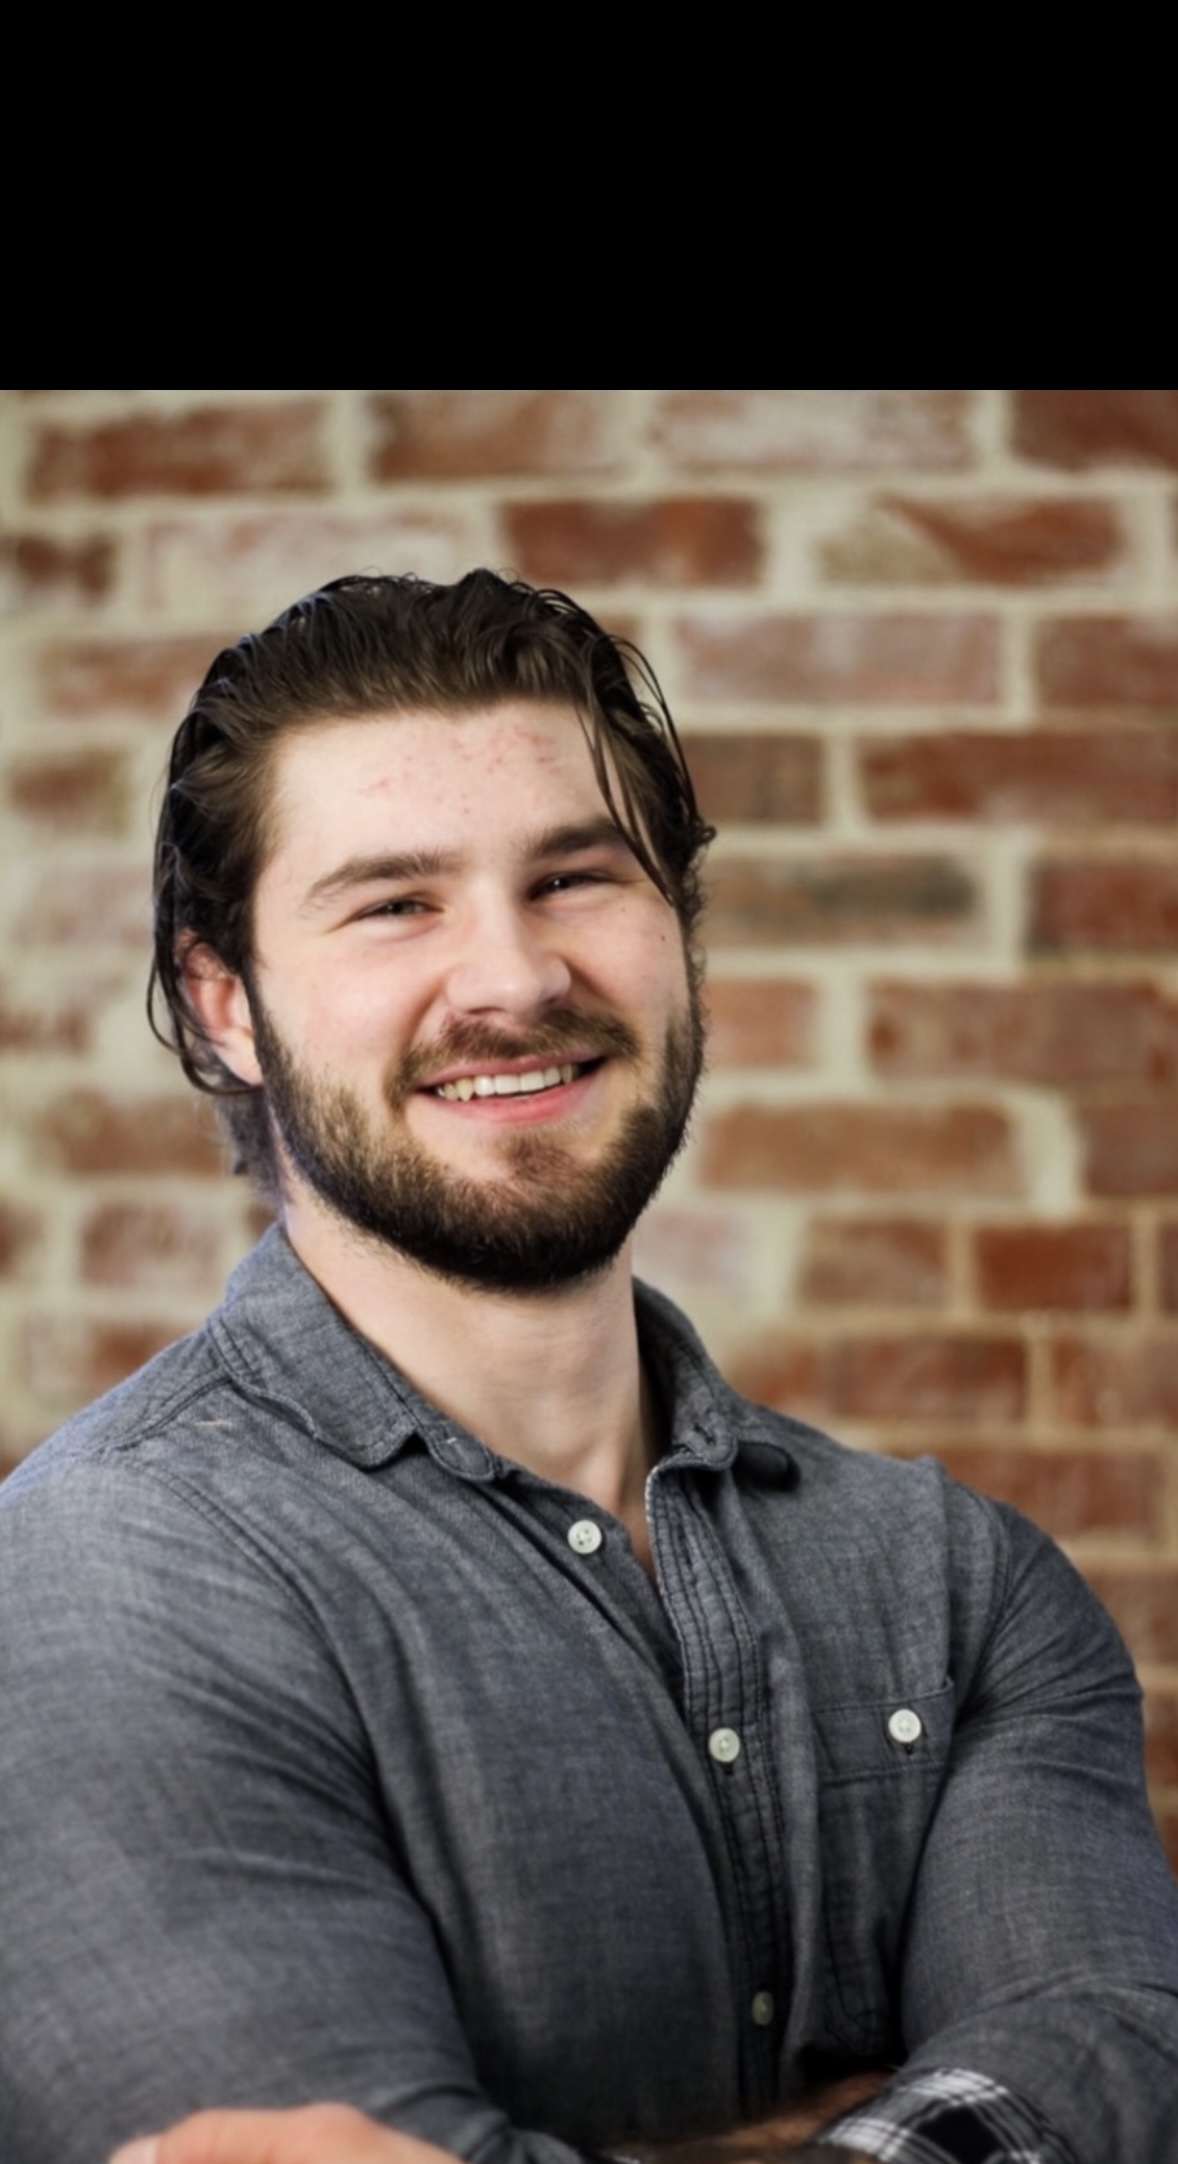
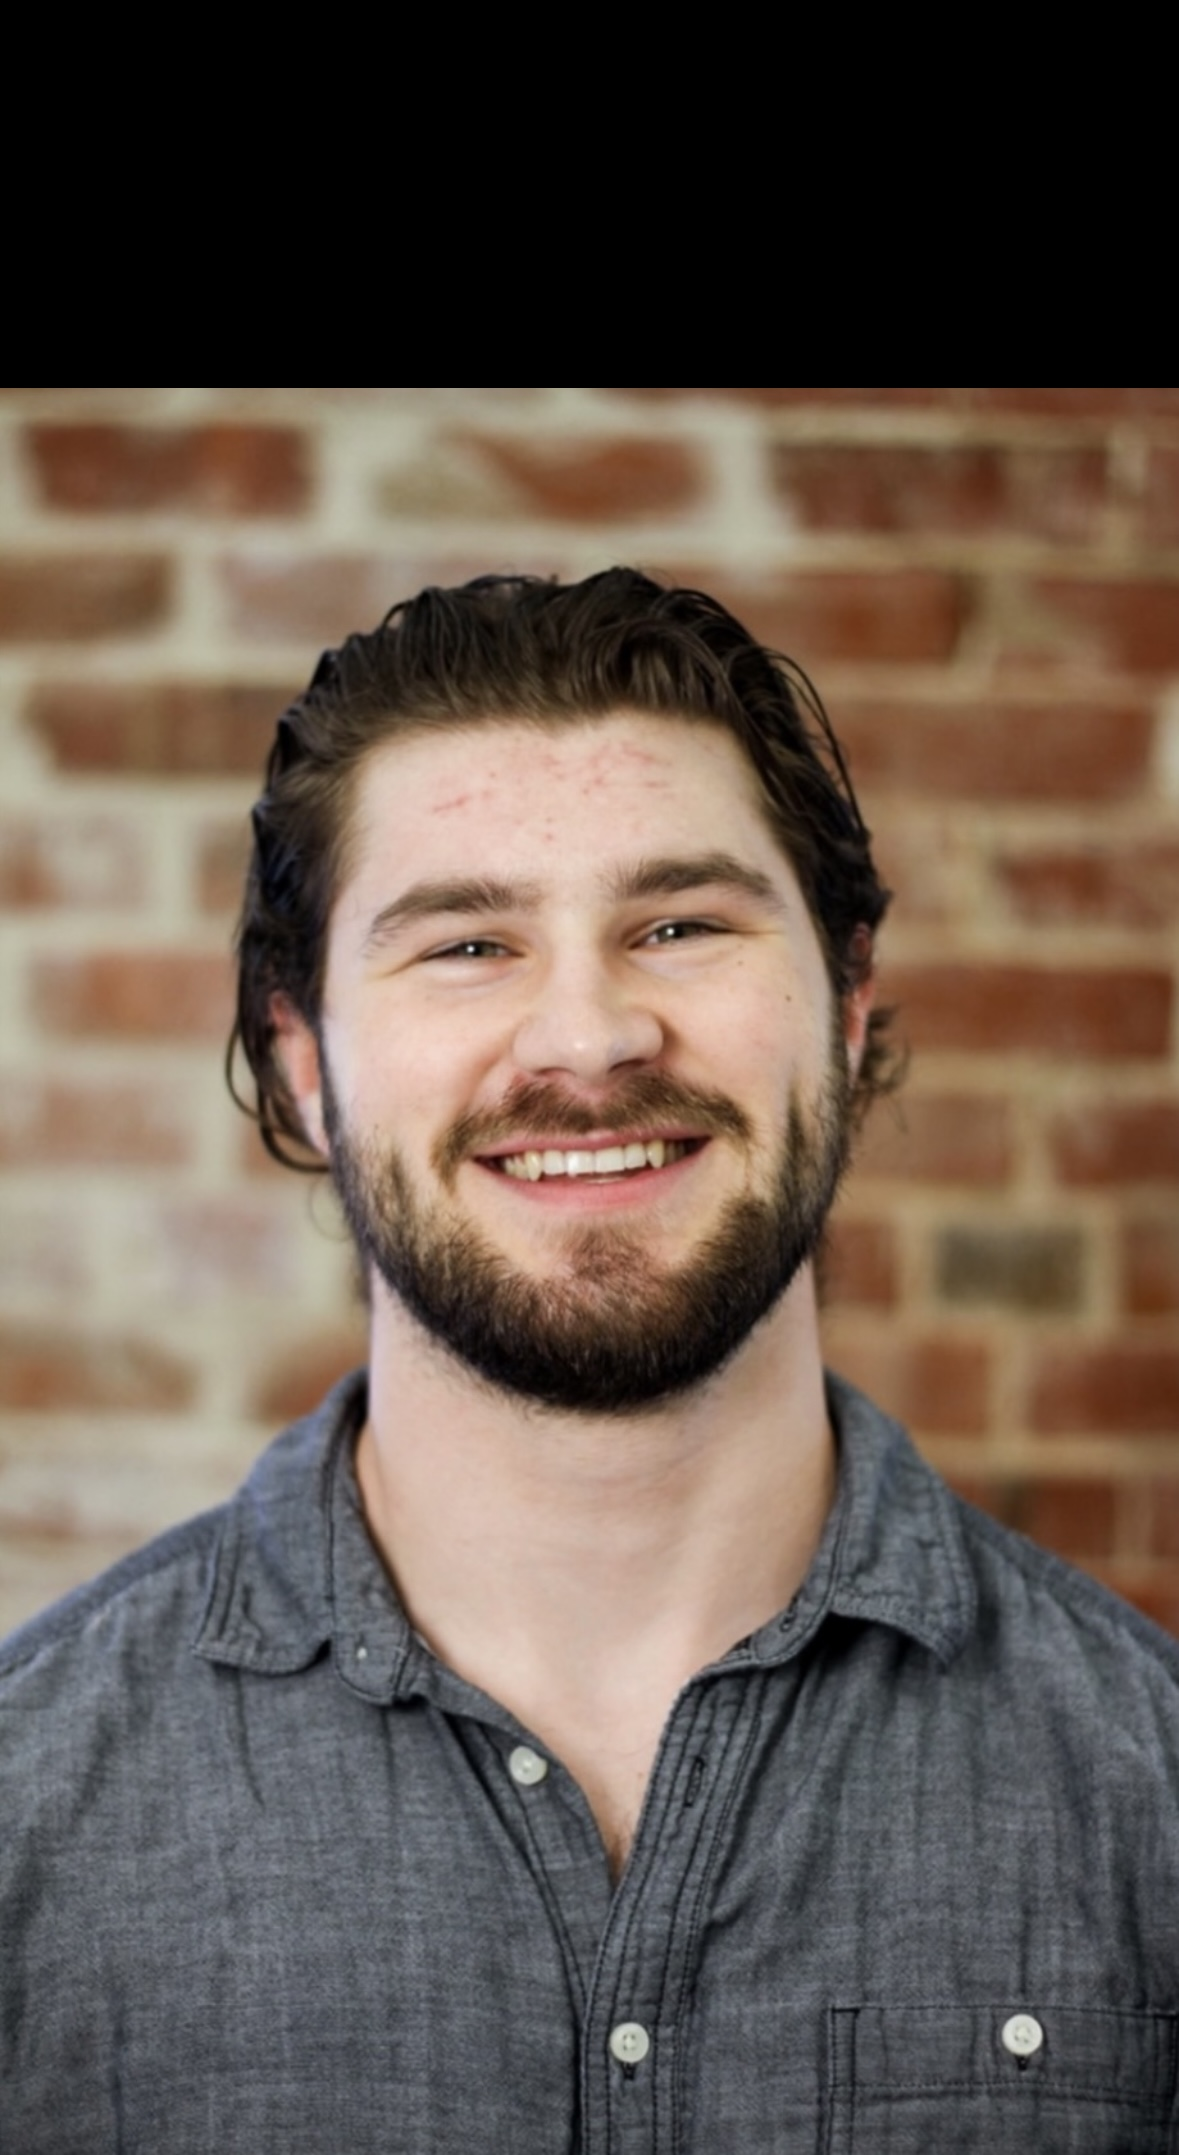
removed hand and changed image

diff --git a/src/components/home/Data.js b/src/components/home/Data.js
@@ -4,55 +4,6 @@ const Data = () => {
     return (
         <div className="home_data">
             <h1 className="home_title">Braden Ognoskie
-                <svg
-                width="36"
-                height="36"
-                viewBox="0 0 48 48"
-                fill="none"
-                xmlns="http://www.w3.org/2000/svg"
-                className="home__hand"
-            >
-                <path
-                    d="M25.4995 32.0305L31.3495 33.1555L36.1495 8.48051C36.4495 6.83051 35.3995 5.18051 33.8245 4.88051C32.1745 4.58051 30.5995 5.70551 30.2995 7.35551L25.4995 32.0305Z"
-                    fill="#FFDD67"
-                ></path>
-                <path
-                    d="M33.8996 4.88018C33.6746 4.80518 33.5246 4.80518 33.2996 4.80518C34.6496 5.33018 35.3996 6.75518 35.0996 8.25518L30.2996 32.9302L31.3496 33.1552L36.1496 8.48018C36.5246 6.75518 35.4746 5.18018 33.8996 4.88018Z"
-                    fill="#EBA352"
-                ></path>
-                <path
-                    d="M19.4995 32.7802H26.5495V5.55518C26.5495 3.53018 24.9745 1.80518 23.0245 1.80518C21.1495 1.80518 19.4995 3.45518 19.4995 5.55518V32.7802Z"
-                    fill="#FFDD67"
-                ></path>
-                <path
-                    d="M23.0995 1.80518C22.9495 1.80518 22.7245 1.80518 22.5745 1.88018C24.2995 2.18018 25.5745 3.68018 25.5745 5.55518V32.8552H26.6245V5.55518C26.6245 3.45518 25.0495 1.80518 23.0995 1.80518Z"
-                    fill="#EBA352"
-                ></path>
-                <path
-                    d="M15.7495 32.7054L21.7495 31.1304L15.2245 6.30541C14.7745 4.58041 13.0495 3.53041 11.3995 3.90541C9.74948 4.35541 8.77448 6.08041 9.22448 7.80541L15.7495 32.7054Z"
-                    fill="#FFDD67"
-                ></path>
-                <path
-                    d="M11.3995 3.90541L10.9495 4.13041C12.4495 4.05541 13.7995 5.03041 14.2495 6.60541L20.7745 31.4304L21.8245 31.1304L15.2245 6.30541C14.7745 4.58041 13.0495 3.53041 11.3995 3.90541Z"
-                    fill="#EBA352"
-                ></path>
-                <path
-                    d="M2.99937 10.355C1.57437 11.03 1.12437 12.83 1.87437 14.33L11.7744 34.055L16.7994 31.505L6.89937 11.78C6.14937 10.28 4.42437 9.68 2.99937 10.355Z"
-                    fill="#FFDD67"
-                ></path>
-                <path
-                    d="M2.99956 10.355C2.84956 10.43 2.69956 10.505 2.54956 10.655C3.82456 10.28 5.24956 10.955 5.92456 12.305L15.8246 32.03L16.7996 31.58L6.89956 11.78C6.14956 10.28 4.42456 9.68 2.99956 10.355Z"
-                    fill="#EBA352"
-                ></path>
-                <path
-                    d="M46.2744 22.2801C45.0744 19.9551 41.3244 20.1051 37.4994 24.3051C34.7994 27.2301 34.2744 28.2051 31.5744 28.1301V25.0551C31.5744 25.0551 25.7994 20.7801 14.3244 22.7301C14.3244 22.7301 7.79945 23.6301 7.79945 27.0801C7.79945 27.0801 6.67445 35.4051 8.99945 40.6551C12.4494 48.4551 30.1494 50.4801 35.6994 37.2051C36.8244 34.5801 39.0744 32.6301 41.0994 30.1551C43.4244 27.1551 47.5494 24.7551 46.2744 22.2801Z"
-                    fill="#FFDD67"
-                ></path>
-                <path
-                    d="M46.2745 22.28C46.0495 21.83 45.7495 21.53 45.3745 21.23C45.4495 21.305 45.5245 21.38 45.5245 21.53C46.7995 24.08 42.6745 26.405 40.1995 29.405C38.1745 31.88 35.9245 33.83 34.7995 36.455C29.9995 47.93 16.0495 47.93 10.1995 42.68C15.5245 48.68 30.5245 49.28 35.5495 37.205C36.6745 34.58 38.9245 32.63 40.9495 30.155C43.4245 27.155 47.5495 24.755 46.2745 22.28ZM32.3245 28.13C27.4495 26.33 18.7495 29.63 19.9495 38.405C19.9495 30.23 27.3745 28.205 31.4245 28.205C32.0245 28.13 32.3245 28.13 32.3245 28.13Z"
-                    fill="#EBA352"
-                ></path>
-                </svg>
             </h1>
             <h3 className="home_subtitle">Full Stack Developer</h3>
             <p className="home_description">I'm a full stack developer with a passion and drive for front-end development.</p>

diff --git a/src/components/home/home.css b/src/components/home/home.css
@@ -25,12 +25,6 @@
     margin-bottom: var(--mb-1);
 }
 
-.home_hand {
-    width: 38px;
-    height: 38px;
-    margin-left: 0.4rem;
-}
-
 .home_subtitle {
     position: relative;
     font-size: var(--h3-font-size);
@@ -55,11 +49,9 @@
 }
 
 .home_img {
-    background: url("../../assets//profile.jpg");
-    background-repeat: no-repeat;
-    background-position: center;
+    background: url("../../assets//profile.jpg") no-repeat center;
     background-size: cover;
-    box-shadow: inset 0 0 0 9px rgb(225, 225, 255 / 30%);
+    box-shadow: inset 0 0 0 9px rgb(225 225 255 / 30%);
     order: 1;
     justify-self: center;
     width: 300px;
